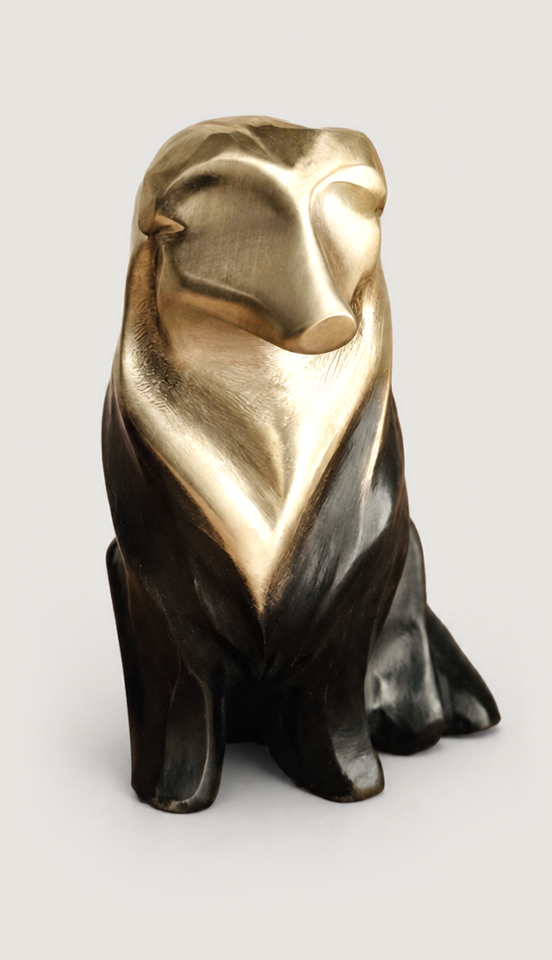
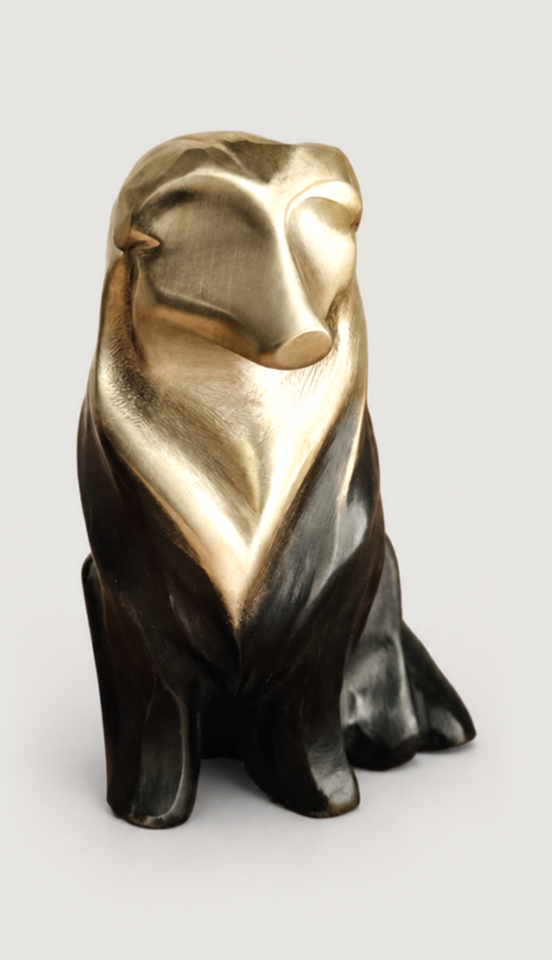
Phones: grids edge to edge with hairlines; left retriever centred and sized; faceted band larger; closing chess photo full height

Changed region(s): [[0.1232, 0.0938, 0.9239, 0.875], [0.308, 0.625, 0.3388, 0.6562]]

diff --git a/pdp/custom.html b/pdp/custom.html
@@ -15,7 +15,7 @@
 <meta name="twitter:card" content="summary_large_image">
 <link rel="icon" href="img/favicon.png"><link rel="apple-touch-icon" href="img/apple-touch-icon.png"><meta name="google-site-verification" content="UEObIGdEnOoIRdBe4jtGb3HLqJgLBge1lnn0HqgOmNs"><meta name="google-site-verification" content="9SgxVt1BO36yXRainJxHVzcSkmpf8mZAYfmHSm4phnw">
 <link rel="preload" href="fonts/instrument-serif.woff2" as="font" type="font/woff2" crossorigin>
-<link rel="stylesheet" href="site.css?v=1790321658">
+<link rel="stylesheet" href="site.css?v=1790321987">
 <style>
   /* ── layout: examples wall left, commission form pinned right ─────────── */
   .commission{display:block}
@@ -189,13 +189,14 @@
     .order::-webkit-scrollbar{display:none}
   }
   @media (max-width:1023px){
-    body .commission{display:grid;grid-template-columns:1fr 1fr;gap:8px;padding:0 var(--gutter)}
+    body .commission{display:grid;grid-template-columns:1fr 1fr;gap:1px;padding:0}          /* the pictures edge to edge, hairlines between */
     .commission > .examples{display:contents}
-    .commission .examples .lead{grid-column:1/-1;order:-2;margin:0 calc(-1 * var(--gutter));aspect-ratio:auto;height:70vh;height:70svh}
-    .commission > .order{grid-column:1/-1;order:-1;padding:32px 0 48px !important}
+    .commission .examples .lead{grid-column:1/-1;order:-2;margin:0;aspect-ratio:auto;height:70vh;height:70svh}
+    .commission > .order{grid-column:1/-1;order:-1;padding:32px var(--gutter) 48px !important}
     .order > .eyebrow,.order h1,.order .body,.order .price{text-align:center;margin-left:auto;margin-right:auto}
     .order .body{max-width:90%}          /* the opening line reads a touch narrower than the page */
     .commission > .order{padding-bottom:0 !important}
+    .past-head{padding-left:var(--gutter) !important;padding-right:var(--gutter) !important}
 
     /* Past Work: the shop grid's heading, 48px under the last step */
     .past-head{grid-column:1/-1;display:flex;justify-content:center;align-items:baseline;gap:10px;margin:40px 0 16px;padding:0 !important}          /* 40 + the grid gap of 8 = 48 */
@@ -208,6 +209,10 @@
     .commission .examples figure.cutout::before{background:#E8E6E1}
     .commission .examples figure:not(.lead) img{position:absolute;top:0;left:0;width:100%;height:auto;aspect-ratio:4/5;border-radius:0}
     .commission .examples figure.cutout img{object-fit:contain;padding:21% 15%;box-sizing:border-box}
+    .commission .examples figure[data-name="04.png"]{--s:0.856 !important}          /* phones: the faceted band 15% larger */
+    .commission .examples figure.wide{grid-column:1/-1;height:100vh;height:100svh}          /* the closing picture, full height as on desktop */
+    .commission .examples figure.wide::before{display:none}
+    .commission .examples figure.wide img{position:absolute;inset:0;width:100%;height:100%;aspect-ratio:auto;object-fit:cover}
     /* a piece set larger than its frame is cut at the frame's edge, as on desktop. The clip is drawn
        before the piece is scaled and nudged, so it is the frame worked backwards through that move */
     .commission .examples figure.cutout img{--k:calc(50% * (1 - 1 / var(--s,1)));
@@ -433,7 +438,7 @@
     <figure class="photo" data-name="hannah-macon-custom-double-1-edited.jpg" style="--s:1;--x:0;--y:0"><img src="img/commissions-cut/hannah-macon-custom-double-1-edited.jpg.webp" width="1793" height="1169" alt="ORGANIC TWO FINGER RING" loading="eager" draggable="false"><span class="over"><span class="date">2023</span><span class="name">ORGANIC TWO FINGER RING</span></span></figure>
     <figure class="cutout" data-name="added-1789609019-custom-totem-01.png" style="--s:1.054;--x:0;--y:0"><img src="img/commissions-cut/added-1789609019-custom-totem-01.png.webp" width="903" height="1023" alt="Border Collie, FRONT" loading="lazy" draggable="false"><span class="over"><span class="date">2026</span><span class="name">Border Collie, FRONT</span></span></figure>
     <figure class="cutout" data-name="added-1789609020-custom-totem-02.png" style="--s:1.091;--x:0;--y:0"><img src="img/commissions-cut/added-1789609020-custom-totem-02.png.webp" width="893" height="1091" alt="Border Collie, BACK" loading="lazy" draggable="false"><span class="over"><span class="date">2026</span><span class="name">Border Collie, BACK</span></span></figure>
-    <figure class="cutout" data-name="added-1789609021-custom-totem-03.png" style="--s:0.94;--x:-0.4;--y:-15.6"><img src="img/commissions-cut/added-1789609021-custom-totem-03.png.webp" width="552" height="960" alt="RETRIEVER, FRONT" loading="lazy" draggable="false"><span class="over"><span class="date">2026</span><span class="name">RETRIEVER, FRONT</span></span></figure>
+    <figure class="cutout" data-name="added-1789609021-custom-totem-03.png" style="--s:1.167;--x:0;--y:0"><img src="img/commissions-cut/added-1789609021-custom-totem-03.png.webp" width="552" height="960" alt="RETRIEVER, FRONT" loading="lazy" draggable="false"><span class="over"><span class="date">2026</span><span class="name">RETRIEVER, FRONT</span></span></figure>
     <figure class="cutout" data-name="added-1789609021-custom-totem-04.png" style="--s:1.104;--x:2;--y:-5"><img src="img/commissions-cut/added-1789609021-custom-totem-04.png.webp" width="864" height="1288" alt="RETRIEVER, SIDE" loading="lazy" draggable="false"><span class="over"><span class="date">2026</span><span class="name">RETRIEVER, SIDE</span></span></figure>
     <figure class="cutout" data-name="added-1789609023-custom-totem-07.png" style="--s:1.08;--x:-3.9;--y:1.9"><img src="img/commissions-cut/added-1789609023-custom-totem-07.png.webp" width="1339" height="939" alt="FOX, FRONT" loading="lazy" draggable="false"><span class="over"><span class="date">2026</span><span class="name">FOX, FRONT</span></span></figure>
     <figure class="cutout" data-name="added-1789609024-custom-totem-08.png" style="--s:1.08;--x:5.8;--y:3.6"><img src="img/commissions-cut/added-1789609024-custom-totem-08.png.webp" width="1349" height="924" alt="FOX, BACK" loading="lazy" draggable="false"><span class="over"><span class="date">2026</span><span class="name">FOX, BACK</span></span></figure>

diff --git a/pdp/pages/custom.html b/pdp/pages/custom.html
@@ -179,13 +179,14 @@
     .order::-webkit-scrollbar{display:none}
   }
   @media (max-width:1023px){
-    body .commission{display:grid;grid-template-columns:1fr 1fr;gap:8px;padding:0 var(--gutter)}
+    body .commission{display:grid;grid-template-columns:1fr 1fr;gap:1px;padding:0}          /* the pictures edge to edge, hairlines between */
     .commission > .examples{display:contents}
-    .commission .examples .lead{grid-column:1/-1;order:-2;margin:0 calc(-1 * var(--gutter));aspect-ratio:auto;height:70vh;height:70svh}
-    .commission > .order{grid-column:1/-1;order:-1;padding:32px 0 48px !important}
+    .commission .examples .lead{grid-column:1/-1;order:-2;margin:0;aspect-ratio:auto;height:70vh;height:70svh}
+    .commission > .order{grid-column:1/-1;order:-1;padding:32px var(--gutter) 48px !important}
     .order > .eyebrow,.order h1,.order .body,.order .price{text-align:center;margin-left:auto;margin-right:auto}
     .order .body{max-width:90%}          /* the opening line reads a touch narrower than the page */
     .commission > .order{padding-bottom:0 !important}
+    .past-head{padding-left:var(--gutter) !important;padding-right:var(--gutter) !important}
 
     /* Past Work: the shop grid's heading, 48px under the last step */
     .past-head{grid-column:1/-1;display:flex;justify-content:center;align-items:baseline;gap:10px;margin:40px 0 16px;padding:0 !important}          /* 40 + the grid gap of 8 = 48 */
@@ -198,6 +199,10 @@
     .commission .examples figure.cutout::before{background:#E8E6E1}
     .commission .examples figure:not(.lead) img{position:absolute;top:0;left:0;width:100%;height:auto;aspect-ratio:4/5;border-radius:0}
     .commission .examples figure.cutout img{object-fit:contain;padding:21% 15%;box-sizing:border-box}
+    .commission .examples figure[data-name="04.png"]{--s:0.856 !important}          /* phones: the faceted band 15% larger */
+    .commission .examples figure.wide{grid-column:1/-1;height:100vh;height:100svh}          /* the closing picture, full height as on desktop */
+    .commission .examples figure.wide::before{display:none}
+    .commission .examples figure.wide img{position:absolute;inset:0;width:100%;height:100%;aspect-ratio:auto;object-fit:cover}
     /* a piece set larger than its frame is cut at the frame's edge, as on desktop. The clip is drawn
        before the piece is scaled and nudged, so it is the frame worked backwards through that move */
     .commission .examples figure.cutout img{--k:calc(50% * (1 - 1 / var(--s,1)));

diff --git a/pdp/index.html b/pdp/index.html
@@ -339,7 +339,7 @@ a.cta::after,button.cta::after,.next::after{content:"";width:0;height:12px;margi
   .menu-close::before{transform:rotate(45deg)}
   .menu-close::after{transform:rotate(-45deg)}
   .menu-sheet{padding-left:calc(var(--nav-inset) + 10px) !important;padding-right:var(--nav-inset) !important}
-  .wall-head,.shop-wall,.inspiration-wall,.gallery,.info,.related,.opening,.prose,.steps,.history,
+  .wall-head,.gallery,.info,.related,.opening,.prose,.steps,.history,
   .split .copy,.bag-page{padding-left:var(--gutter) !important;padding-right:var(--gutter) !important}
   /* the opening blurb sits in from the grid, on the menu and bag's own inset */
   .welcome .prose{padding-left:var(--nav-inset) !important;padding-right:var(--nav-inset) !important}
@@ -796,7 +796,7 @@ html.intl .intl-note{display:block}          /* shown only to visitors outside t
   @media (min-width:768px){ .wall-head{padding-left:24px;padding-right:24px} .wall{padding-left:0;padding-right:0} }          /* desktop: the pictures run to the screen edges */
   /* phones: two across, 8px from the edges, 8px between */
   /* phones: the space between pieces matches the space to the edge of the page */
-  @media (max-width:767px){ .wall{grid-template-columns:repeat(2,1fr);gap:8px 1px;padding:0 var(--gutter)} }
+  @media (max-width:767px){ .wall{grid-template-columns:repeat(2,1fr);gap:8px 1px;padding:0} .piece .over{padding-left:16px !important} }          /* phones: edge to edge too; names kept 16px off the edge */
   @media (max-width:767px){ .piece .over{padding-right:14px !important;box-sizing:border-box} }          /* long names wrap before they reach the next tile */
   @media (hover:none){ .piece .held{display:none} }
   /* the in-hand picture is framed on its own (--hx/--hy/--hz, measured by tools/align_hover.py)

diff --git a/pdp/inspiration.html b/pdp/inspiration.html
@@ -15,7 +15,7 @@
 <meta name="twitter:card" content="summary_large_image">
 <link rel="icon" href="img/favicon.png"><link rel="apple-touch-icon" href="img/apple-touch-icon.png"><meta name="google-site-verification" content="UEObIGdEnOoIRdBe4jtGb3HLqJgLBge1lnn0HqgOmNs"><meta name="google-site-verification" content="9SgxVt1BO36yXRainJxHVzcSkmpf8mZAYfmHSm4phnw">
 <link rel="preload" href="fonts/instrument-serif.woff2" as="font" type="font/woff2" crossorigin>
-<link rel="stylesheet" href="site.css?v=1790321658">
+<link rel="stylesheet" href="site.css?v=1790321987">
 <style>
   .wall-head{display:flex;align-items:baseline;gap:10px;padding:25vh 24px 24px}          /* 24px from the screen edge, as on the home page */
   .wall-head h1{margin:0;font-size:57.5px}
@@ -23,7 +23,7 @@
   @media (min-width:1200px){ .wall-head h1{font-size:75px} }
   .wall-head .count{font-size:13px;color:rgba(0,0,0,.45)}
   /* masonry: columns fill top to bottom, each picture keeps its own proportions */
-  .wall{columns:2;column-gap:1px;padding:0}          /* edge to edge, hairlines between */
+  .wall{columns:2;column-gap:1px;padding:0 !important}          /* edge to edge, hairlines between */
   .wall figure{margin:0 0 1px;break-inside:avoid;border-radius:0;overflow:hidden;background:var(--field)}
   .wall img{width:100%;height:auto}
   /* pieces slide up and settle, like dropping into place */

diff --git a/pdp/wonderhorn-talisman.html b/pdp/wonderhorn-talisman.html
@@ -17,7 +17,7 @@
 <script type="application/ld+json">{"@context": "https://schema.org", "@type": "BreadcrumbList", "itemListElement": [{"@type": "ListItem", "position": 1, "name": "Studio Maçon", "item": "https://studiomacon.co"}, {"@type": "ListItem", "position": 2, "name": "Jewelry", "item": "https://studiomacon.co/index.html#pieces"}, {"@type": "ListItem", "position": 3, "name": "Ida's Wonder Horn"}]}</script>
 <link rel="icon" href="img/favicon.png"><link rel="apple-touch-icon" href="img/apple-touch-icon.png"><meta name="google-site-verification" content="UEObIGdEnOoIRdBe4jtGb3HLqJgLBge1lnn0HqgOmNs"><meta name="google-site-verification" content="9SgxVt1BO36yXRainJxHVzcSkmpf8mZAYfmHSm4phnw">
 <link rel="preload" href="fonts/instrument-serif.woff2" as="font" type="font/woff2" crossorigin>
-<link rel="stylesheet" href="site.css?v=1790321658">
+<link rel="stylesheet" href="site.css?v=1790321987">
 <style>
   /* ── product ───────────────────────────────────────── */
   .gallery figure{margin:0;background:none;overflow:hidden}

diff --git a/pdp/ooak-pouch.html b/pdp/ooak-pouch.html
@@ -18,7 +18,7 @@
 <script type="application/ld+json">{"@context": "https://schema.org", "@type": "BreadcrumbList", "itemListElement": [{"@type": "ListItem", "position": 1, "name": "Studio Maçon", "item": "https://studiomacon.co"}, {"@type": "ListItem", "position": 2, "name": "Jewelry", "item": "https://studiomacon.co/index.html#pieces"}, {"@type": "ListItem", "position": 3, "name": "Heartward Pouch"}]}</script>
 <link rel="icon" href="img/favicon.png"><link rel="apple-touch-icon" href="img/apple-touch-icon.png"><meta name="google-site-verification" content="UEObIGdEnOoIRdBe4jtGb3HLqJgLBge1lnn0HqgOmNs"><meta name="google-site-verification" content="9SgxVt1BO36yXRainJxHVzcSkmpf8mZAYfmHSm4phnw">
 <link rel="preload" href="fonts/instrument-serif.woff2" as="font" type="font/woff2" crossorigin>
-<link rel="stylesheet" href="site.css?v=1790321658">
+<link rel="stylesheet" href="site.css?v=1790321987">
 <style>
   /* ── product ───────────────────────────────────────── */
   .gallery figure{margin:0;background:none;overflow:hidden}

diff --git a/pdp/eclipse-ring.html b/pdp/eclipse-ring.html
@@ -17,7 +17,7 @@
 <script type="application/ld+json">{"@context": "https://schema.org", "@type": "BreadcrumbList", "itemListElement": [{"@type": "ListItem", "position": 1, "name": "Studio Maçon", "item": "https://studiomacon.co"}, {"@type": "ListItem", "position": 2, "name": "Jewelry", "item": "https://studiomacon.co/index.html#pieces"}, {"@type": "ListItem", "position": 3, "name": "Eclipse Ring"}]}</script>
 <link rel="icon" href="img/favicon.png"><link rel="apple-touch-icon" href="img/apple-touch-icon.png"><meta name="google-site-verification" content="UEObIGdEnOoIRdBe4jtGb3HLqJgLBge1lnn0HqgOmNs"><meta name="google-site-verification" content="9SgxVt1BO36yXRainJxHVzcSkmpf8mZAYfmHSm4phnw">
 <link rel="preload" href="fonts/instrument-serif.woff2" as="font" type="font/woff2" crossorigin>
-<link rel="stylesheet" href="site.css?v=1790321658">
+<link rel="stylesheet" href="site.css?v=1790321987">
 <style>
   /* ── product ───────────────────────────────────────── */
   .gallery figure{margin:0;background:none;overflow:hidden}

diff --git a/pdp/lunar-canyon-ring.html b/pdp/lunar-canyon-ring.html
@@ -17,7 +17,7 @@
 <script type="application/ld+json">{"@context": "https://schema.org", "@type": "BreadcrumbList", "itemListElement": [{"@type": "ListItem", "position": 1, "name": "Studio Maçon", "item": "https://studiomacon.co"}, {"@type": "ListItem", "position": 2, "name": "Jewelry", "item": "https://studiomacon.co/index.html#pieces"}, {"@type": "ListItem", "position": 3, "name": "Lunar Canyon"}]}</script>
 <link rel="icon" href="img/favicon.png"><link rel="apple-touch-icon" href="img/apple-touch-icon.png"><meta name="google-site-verification" content="UEObIGdEnOoIRdBe4jtGb3HLqJgLBge1lnn0HqgOmNs"><meta name="google-site-verification" content="9SgxVt1BO36yXRainJxHVzcSkmpf8mZAYfmHSm4phnw">
 <link rel="preload" href="fonts/instrument-serif.woff2" as="font" type="font/woff2" crossorigin>
-<link rel="stylesheet" href="site.css?v=1790321658">
+<link rel="stylesheet" href="site.css?v=1790321987">
 <style>
   /* ── product ───────────────────────────────────────── */
   .gallery figure{margin:0;background:none;overflow:hidden}

diff --git a/pdp/meridian-egg-ring.html b/pdp/meridian-egg-ring.html
@@ -17,7 +17,7 @@
 <script type="application/ld+json">{"@context": "https://schema.org", "@type": "BreadcrumbList", "itemListElement": [{"@type": "ListItem", "position": 1, "name": "Studio Maçon", "item": "https://studiomacon.co"}, {"@type": "ListItem", "position": 2, "name": "Jewelry", "item": "https://studiomacon.co/index.html#pieces"}, {"@type": "ListItem", "position": 3, "name": "Meridian Egg"}]}</script>
 <link rel="icon" href="img/favicon.png"><link rel="apple-touch-icon" href="img/apple-touch-icon.png"><meta name="google-site-verification" content="UEObIGdEnOoIRdBe4jtGb3HLqJgLBge1lnn0HqgOmNs"><meta name="google-site-verification" content="9SgxVt1BO36yXRainJxHVzcSkmpf8mZAYfmHSm4phnw">
 <link rel="preload" href="fonts/instrument-serif.woff2" as="font" type="font/woff2" crossorigin>
-<link rel="stylesheet" href="site.css?v=1790321658">
+<link rel="stylesheet" href="site.css?v=1790321987">
 <style>
   /* ── product ───────────────────────────────────────── */
   .gallery figure{margin:0;background:none;overflow:hidden}

diff --git a/pdp/ooak-vessel.html b/pdp/ooak-vessel.html
@@ -18,7 +18,7 @@
 <script type="application/ld+json">{"@context": "https://schema.org", "@type": "BreadcrumbList", "itemListElement": [{"@type": "ListItem", "position": 1, "name": "Studio Maçon", "item": "https://studiomacon.co"}, {"@type": "ListItem", "position": 2, "name": "Totems", "item": "https://studiomacon.co/index.html#pieces"}, {"@type": "ListItem", "position": 3, "name": "Hollow Keeper"}]}</script>
 <link rel="icon" href="img/favicon.png"><link rel="apple-touch-icon" href="img/apple-touch-icon.png"><meta name="google-site-verification" content="UEObIGdEnOoIRdBe4jtGb3HLqJgLBge1lnn0HqgOmNs"><meta name="google-site-verification" content="9SgxVt1BO36yXRainJxHVzcSkmpf8mZAYfmHSm4phnw">
 <link rel="preload" href="fonts/instrument-serif.woff2" as="font" type="font/woff2" crossorigin>
-<link rel="stylesheet" href="site.css?v=1790321658">
+<link rel="stylesheet" href="site.css?v=1790321987">
 <style>
   /* ── product ───────────────────────────────────────── */
   .gallery figure{margin:0;background:none;overflow:hidden}

diff --git a/pdp/starshipkey-pendant.html b/pdp/starshipkey-pendant.html
@@ -17,7 +17,7 @@
 <script type="application/ld+json">{"@context": "https://schema.org", "@type": "BreadcrumbList", "itemListElement": [{"@type": "ListItem", "position": 1, "name": "Studio Maçon", "item": "https://studiomacon.co"}, {"@type": "ListItem", "position": 2, "name": "Jewelry", "item": "https://studiomacon.co/index.html#pieces"}, {"@type": "ListItem", "position": 3, "name": "Starship Key"}]}</script>
 <link rel="icon" href="img/favicon.png"><link rel="apple-touch-icon" href="img/apple-touch-icon.png"><meta name="google-site-verification" content="UEObIGdEnOoIRdBe4jtGb3HLqJgLBge1lnn0HqgOmNs"><meta name="google-site-verification" content="9SgxVt1BO36yXRainJxHVzcSkmpf8mZAYfmHSm4phnw">
 <link rel="preload" href="fonts/instrument-serif.woff2" as="font" type="font/woff2" crossorigin>
-<link rel="stylesheet" href="site.css?v=1790321658">
+<link rel="stylesheet" href="site.css?v=1790321987">
 <style>
   /* ── product ───────────────────────────────────────── */
   .gallery figure{margin:0;background:none;overflow:hidden}

diff --git a/pdp/ear-cuff.html b/pdp/ear-cuff.html
@@ -17,7 +17,7 @@
 <script type="application/ld+json">{"@context": "https://schema.org", "@type": "BreadcrumbList", "itemListElement": [{"@type": "ListItem", "position": 1, "name": "Studio Maçon", "item": "https://studiomacon.co"}, {"@type": "ListItem", "position": 2, "name": "Jewelry", "item": "https://studiomacon.co/index.html#pieces"}, {"@type": "ListItem", "position": 3, "name": "Caldera Arc"}]}</script>
 <link rel="icon" href="img/favicon.png"><link rel="apple-touch-icon" href="img/apple-touch-icon.png"><meta name="google-site-verification" content="UEObIGdEnOoIRdBe4jtGb3HLqJgLBge1lnn0HqgOmNs"><meta name="google-site-verification" content="9SgxVt1BO36yXRainJxHVzcSkmpf8mZAYfmHSm4phnw">
 <link rel="preload" href="fonts/instrument-serif.woff2" as="font" type="font/woff2" crossorigin>
-<link rel="stylesheet" href="site.css?v=1790321658">
+<link rel="stylesheet" href="site.css?v=1790321987">
 <style>
   /* ── product ───────────────────────────────────────── */
   .gallery figure{margin:0;background:none;overflow:hidden}
